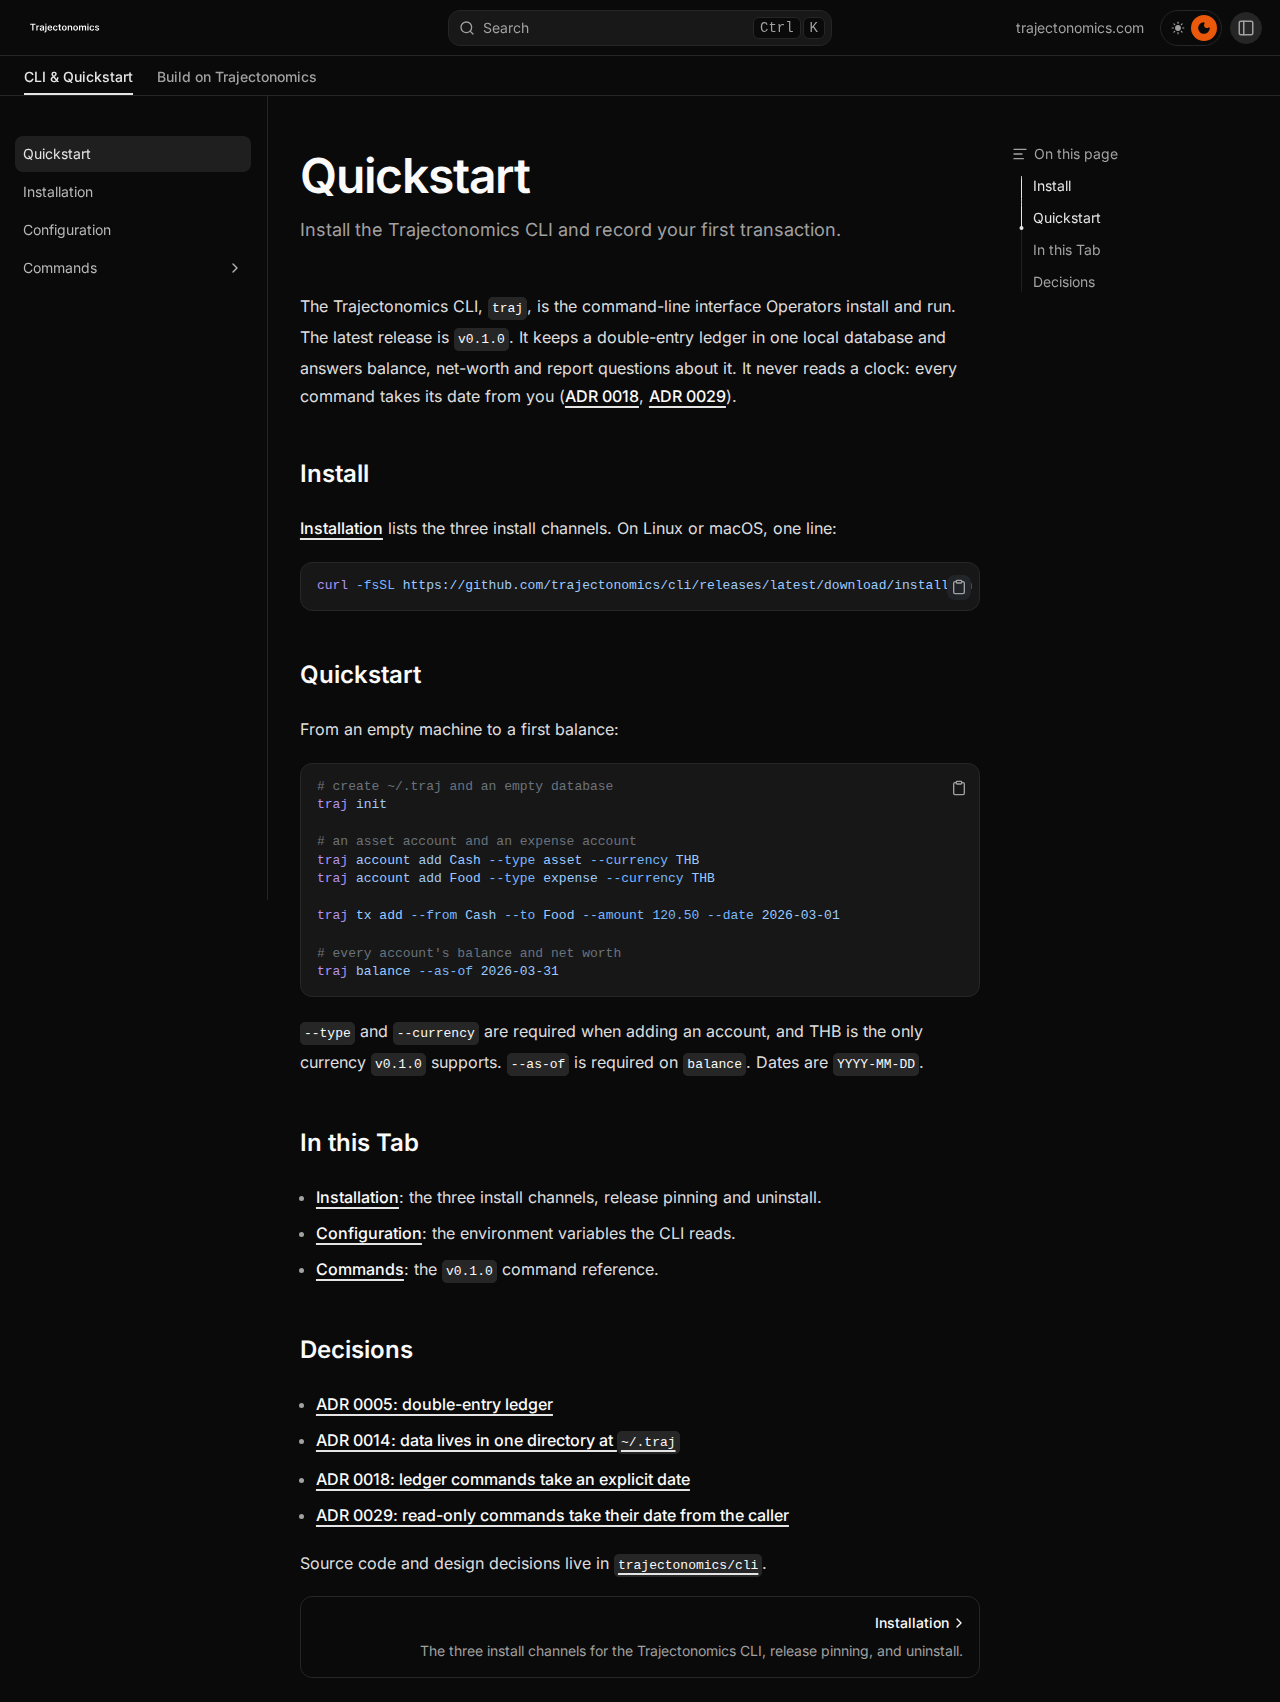
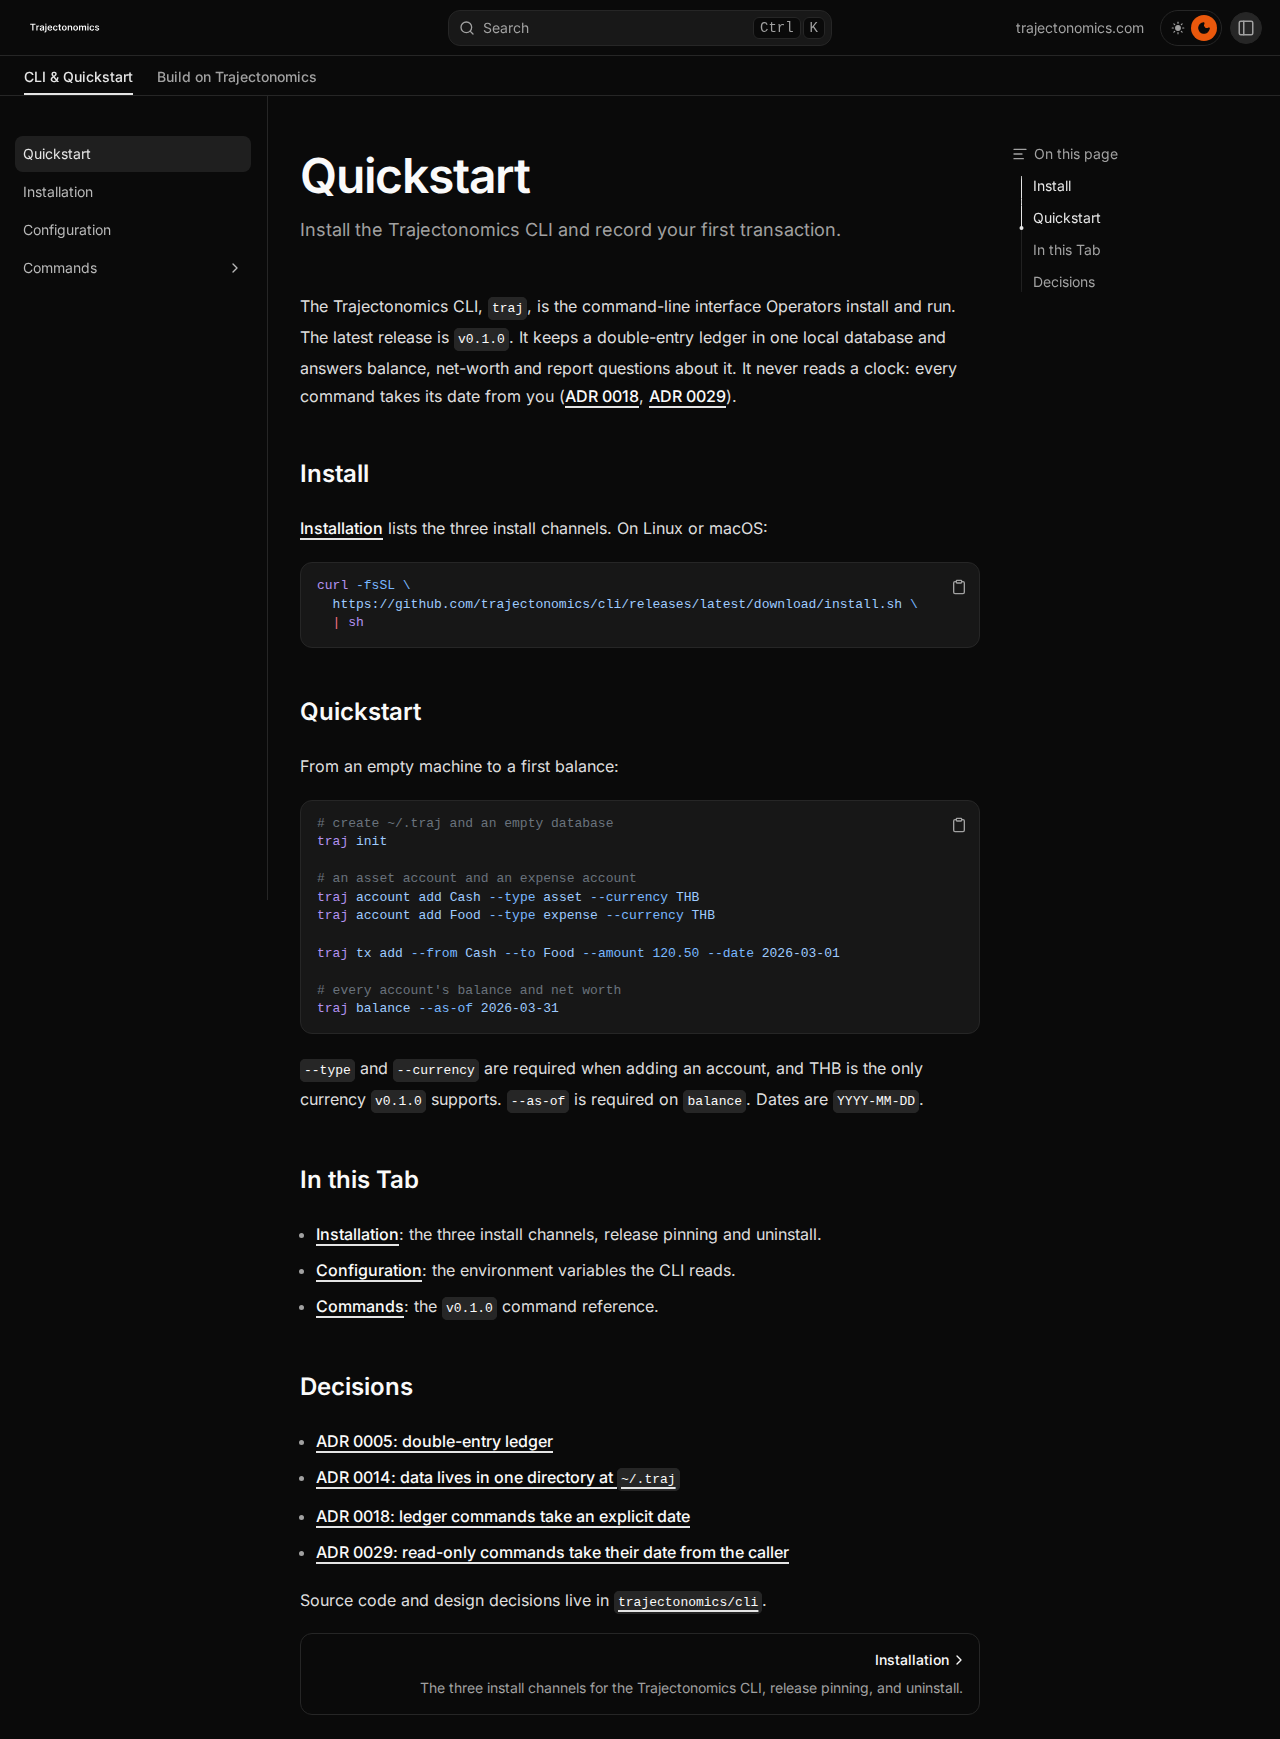
fix: keep the install command inside its block
The install fence was one 84-character line: 624px of code in a 678px
block at 1280, so `| sh` sat under the copy button and off the visible
line. Split it with a shell continuation (`curl -fsSL \` / URL `\` /
`| sh`) on both pages that carry it. The longest line is now 77
characters, 600.7px, and the copy button clears it by 29px. The copied
text still runs as the same one command; `sh -n` accepts it.

The curated screenshots were not reproducible: `bun run test:e2e` writes
only the flat, gitignored `screenshots/` tree, so the committed set came
from a throwaway capture. `scripts/screenshots.ts` now drives the built
site the way the e2e does (same viewport height, full page, settled
page) and writes both themes at 1280, 2000 and 390px, run with
`bun run screenshots:curated`. `docs/design/portal-shell.md` names it.
The `cli-hover` shot is part of that set, so it is regenerated too.

diff --git a/scripts/screenshots.ts b/scripts/screenshots.ts
@@ -1,0 +1,125 @@
+/*
+ * Render the curated screenshots `docs/design/portal-shell.md` requires and commits under
+ * `docs/screenshots/`: the built Docs Portal at 1280, 2000 and 390px in light and dark, driven
+ * the way `e2e/screenshots.e2e.ts` drives it (same viewport height, full page, settled page).
+ * The e2e suite's own tree stays flat and gitignored; this one is the evidence a PR carries.
+ */
+import { mkdir } from "node:fs/promises"
+import { dirname, join } from "node:path"
+import { chromium, type Page } from "@playwright/test"
+import { waitForSettledPage } from "../e2e/docs-portal"
+import { TEST_VIEWPORT_HEIGHT_PX, TEST_WIDTHS_PX } from "../e2e/viewports"
+
+/** The port this script serves the built site on; not the e2e suite's, so both can run at once. */
+const PORT = 8788
+
+const BASE_URL = `http://127.0.0.1:${PORT}`
+
+/** Fumadocs' copy control on a code block: the "Copy Text" button in the block's figure. */
+const COPY_CONTROL = "#nd-page figure button[aria-live='polite']"
+
+/** The pages the curated set shows, each under the file name it is committed as. */
+const PAGES: readonly CuratedPage[] = [
+	{ path: "/docs/", name: "landing-page", widthsPx: TEST_WIDTHS_PX, hover: null },
+	{ path: "/docs/no-such-page/", name: "not-found", widthsPx: TEST_WIDTHS_PX, hover: null },
+	{ path: "/docs/cli/", name: "cli", widthsPx: TEST_WIDTHS_PX, hover: null },
+	{
+		path: "/docs/cli/commands/tx/",
+		name: "cli-commands-tx",
+		widthsPx: TEST_WIDTHS_PX,
+		hover: null,
+	},
+	// The copy control's hover state, which the plain grid never reaches.
+	{ path: "/docs/cli/", name: "cli-hover", widthsPx: [1280], hover: COPY_CONTROL },
+]
+
+/** A page the curated set shows, the widths it is shown at, and any hover state it needs. */
+interface CuratedPage {
+	readonly path: string
+	readonly name: string
+	readonly widthsPx: readonly number[]
+	readonly hover: string | null
+}
+
+/** One committed screenshot: the theme, width and page it shows, and the file it lands in. */
+export interface CuratedShot {
+	readonly theme: "light" | "dark"
+	readonly widthPx: number
+	readonly path: string
+	readonly hover: string | null
+	readonly file: string
+}
+
+/** Every curated screenshot, as `docs/screenshots/<theme>/<width>/<page>.png`. */
+export function curatedShots(root = "docs/screenshots"): CuratedShot[] {
+	const themes = ["light", "dark"] as const
+	return themes.flatMap((theme) =>
+		PAGES.flatMap((page) =>
+			page.widthsPx.map((widthPx) => ({
+				theme,
+				widthPx,
+				path: page.path,
+				hover: page.hover,
+				file: join(root, theme, String(widthPx), `${page.name}.png`),
+			})),
+		),
+	)
+}
+
+/** Capture one shot from a page already opening the built site. */
+async function capture(page: Page, shot: CuratedShot): Promise<void> {
+	await page.setViewportSize({ width: shot.widthPx, height: TEST_VIEWPORT_HEIGHT_PX })
+	// next-themes follows the system scheme until a reader picks one, so this is the theme.
+	await page.emulateMedia({ colorScheme: shot.theme })
+	await page.goto(`${BASE_URL}${shot.path}`)
+	await waitForSettledPage(page)
+	if (shot.hover !== null) {
+		await page.hover(shot.hover)
+	}
+	await mkdir(dirname(shot.file), { recursive: true })
+	await page.screenshot({ path: shot.file, fullPage: true })
+}
+
+/** Serve the built site the way the e2e suite does, returning a stop function. */
+async function serve(): Promise<() => void> {
+	const server = Bun.spawn(
+		["bunx", "wrangler", "dev", "--ip", "127.0.0.1", "--port", String(PORT)],
+		{ stdout: "ignore", stderr: "ignore" },
+	)
+	await waitForServer()
+	return () => server.kill()
+}
+
+/** Poll until the served site answers, or give up after two minutes. */
+async function waitForServer(): Promise<void> {
+	for (let attempt = 0; attempt < 240; attempt += 1) {
+		const answer = await fetch(`${BASE_URL}/docs/cli/`).catch(() => null)
+		if (answer?.ok === true) {
+			return
+		}
+		await Bun.sleep(500)
+	}
+	throw new Error(`screenshots: nothing answered on ${BASE_URL}. Run \`bun run build\` first.`)
+}
+
+/** Capture every curated screenshot into `docs/screenshots/`. */
+async function main(): Promise<void> {
+	const shots = curatedShots()
+	const stopServing = await serve()
+	const browser = await chromium.launch()
+	try {
+		const page = await browser.newPage()
+		for (const shot of shots) {
+			await capture(page, shot)
+			console.log(`screenshots: ${shot.file}`)
+		}
+	} finally {
+		await browser.close()
+		stopServing()
+	}
+	console.log(`screenshots: ${shots.length} written`)
+}
+
+if (import.meta.main) {
+	await main()
+}

diff --git a/docs/design/portal-shell.md b/docs/design/portal-shell.md
@@ -43,4 +43,4 @@ All from `@trajectonomics/design-system-assets`: the docs pages' header shows th
 
 ## Checking a change
 
-`bun run check` runs `verify:build` against the built site. Layout at 1280, 2000 and 390px and dark mode are checked by screenshots in the pull request until [docs#9](https://github.com/trajectonomics/docs/issues/9) decides a browser test strategy. A Surface ticket — a Spec that names a visual reference ([factory ADR 0017](https://github.com/trajectonomics/factory/blob/main/docs/adr/0017-surface-design-gate.md)) — also commits the rendered screenshots under `docs/screenshots/` on the branch, at 1280, 2000 and 390 px in light and dark, and names the reference in the pull request body; its pull request merges only on the owner's approval review or explicit yes.
+`bun run check` runs `verify:build` against the built site. Layout at 1280, 2000 and 390px and dark mode are checked by screenshots in the pull request until [docs#9](https://github.com/trajectonomics/docs/issues/9) decides a browser test strategy. A Surface ticket — a Spec that names a visual reference ([factory ADR 0017](https://github.com/trajectonomics/factory/blob/main/docs/adr/0017-surface-design-gate.md)) — also commits the rendered screenshots under `docs/screenshots/` — `bun run screenshots:curated` writes them — on the branch, at 1280, 2000 and 390 px in light and dark, and names the reference in the pull request body; its pull request merges only on the owner's approval review or explicit yes.
